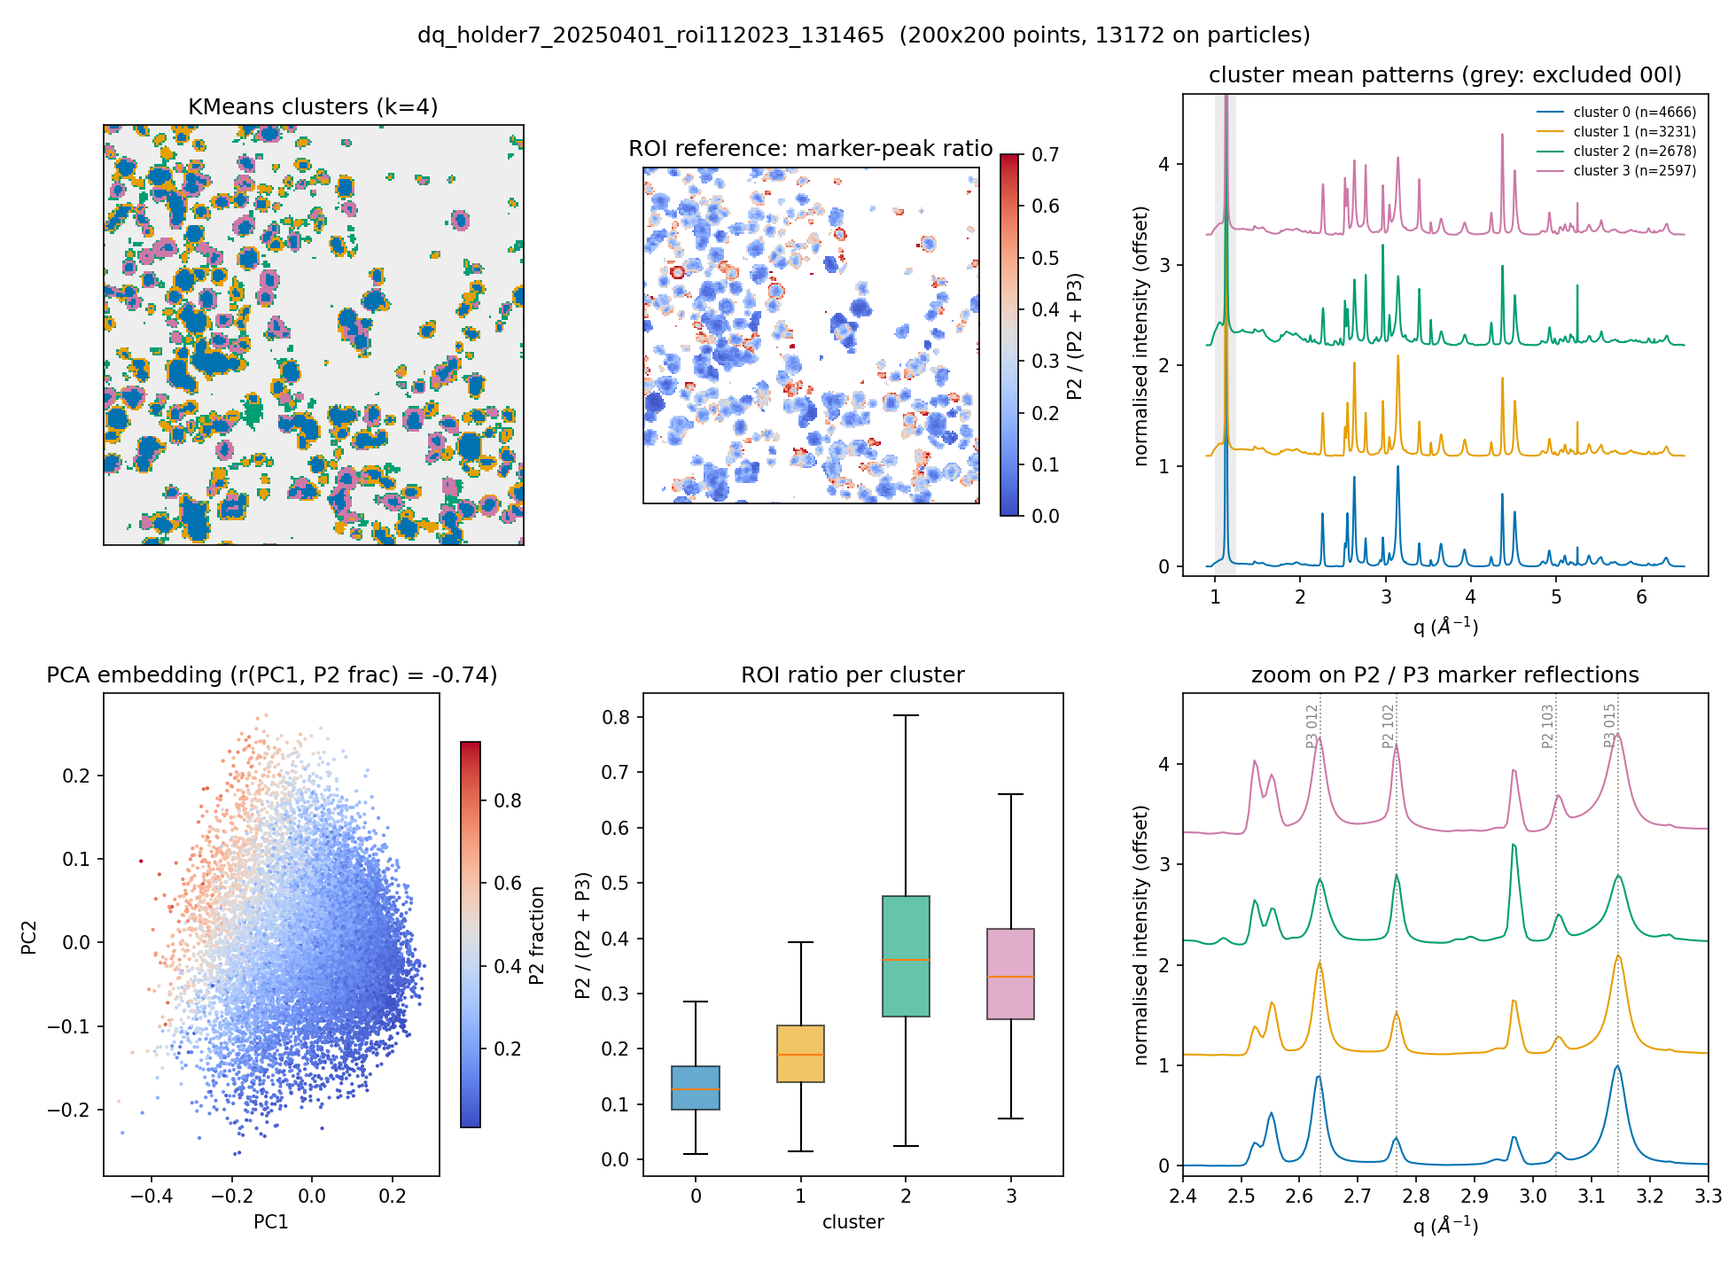
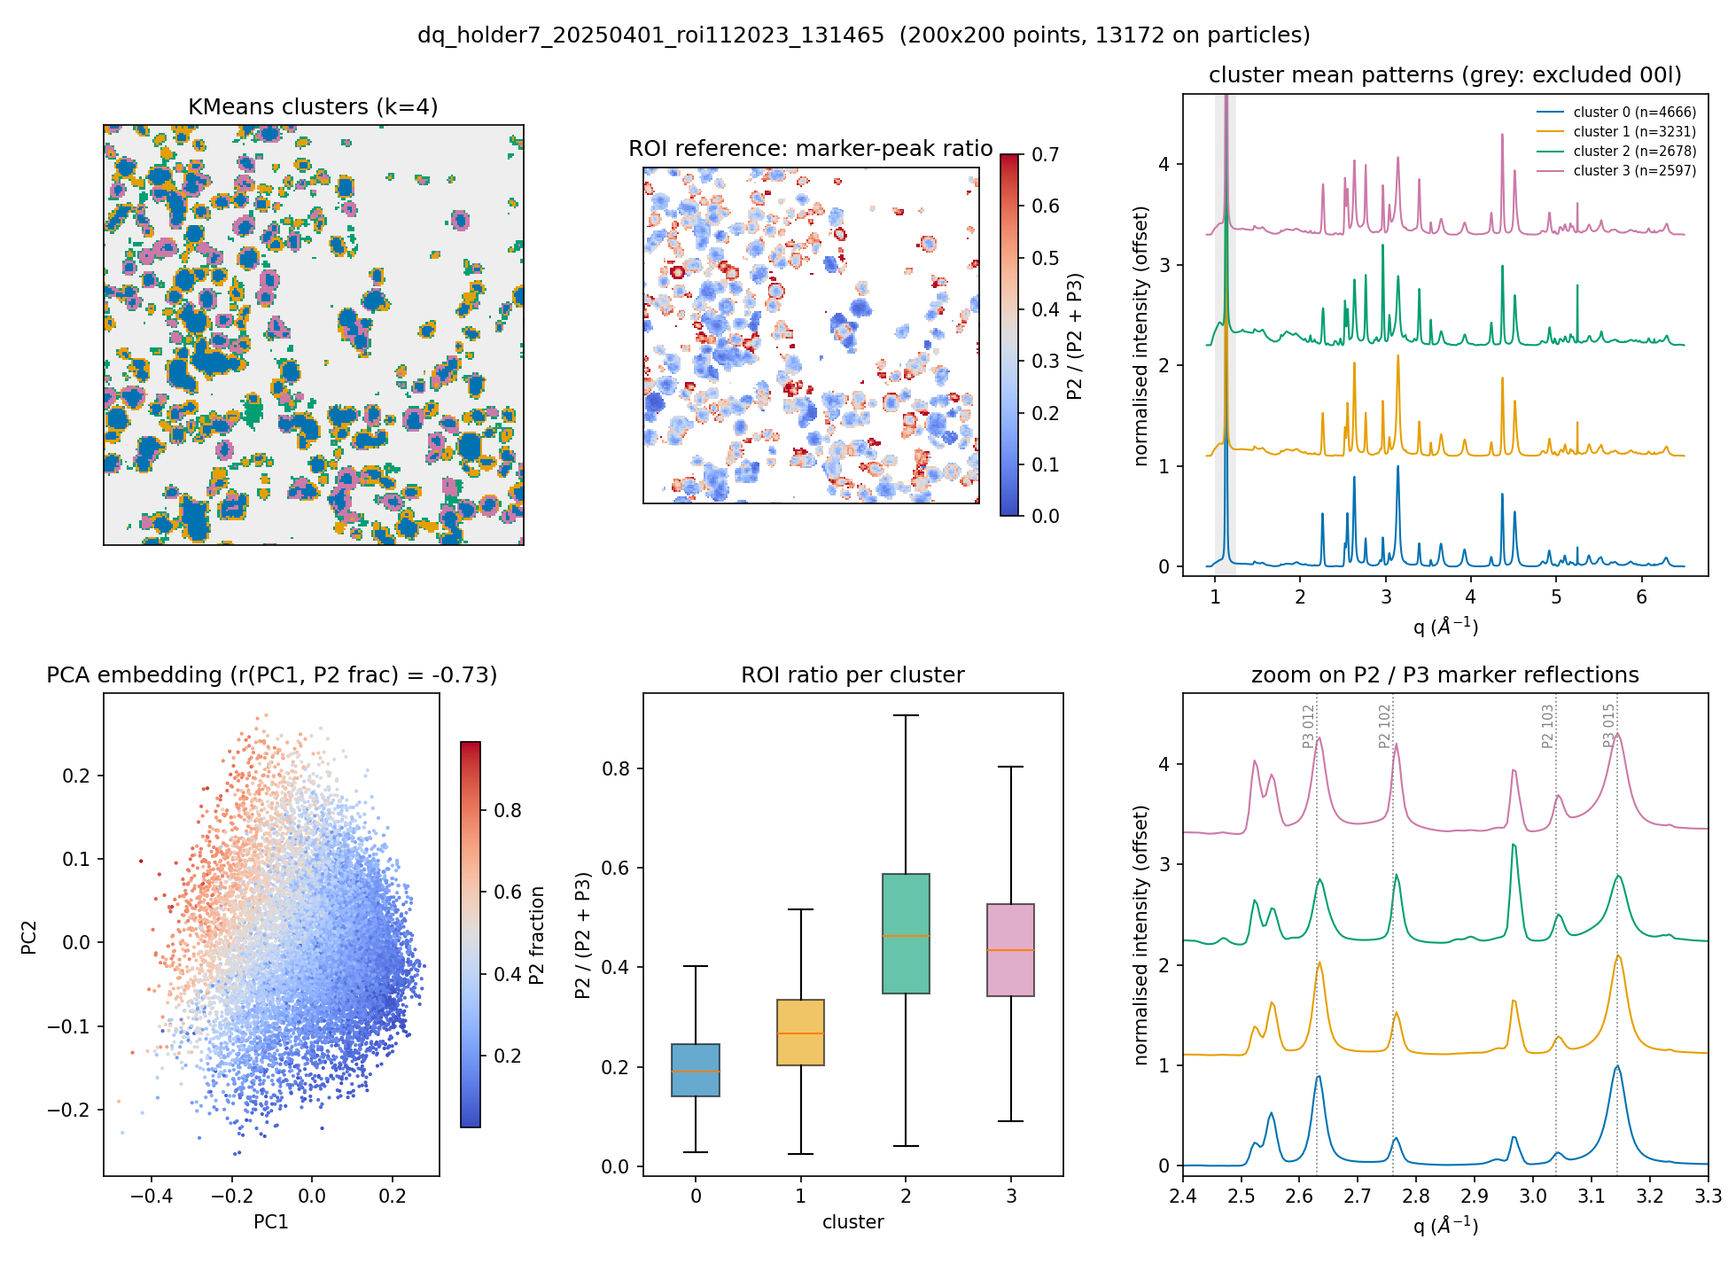
Rename package to uxrd-phasemap-id13; align ROI analysis with the published method (Xu et al., ACS Energy Lett. 2025)

diff --git a/examples/id13_layered_oxide.py b/examples/id13_layered_oxide.py
@@ -1,5 +1,10 @@
 """Phase mapping of an ESRF ID13 scanning micro-XRD map of a P2/P3 layered oxide.
 
+Sample and published analysis: Xu et al., ACS Energy Lett. 2025, 10, 6347
+(doi:10.1021/acsenergylett.5c03108), Fig. 1c and SI. A biphasic P2/P3
+Na-layered oxide (700 C, 12 h) spread between Kapton tapes, 2 um x 2 um
+pixels, 400 um x 400 um regions (200 x 200 patterns), Eiger 4M, 0.954 A.
+
 Usage:
     python examples/id13_layered_oxide.py path/to/dq_*.h5 [--out results_private]
 
@@ -11,8 +16,10 @@ What it does
   3. PCA + KMeans on sqrt-scaled, L2-normalised peak patterns, excluding the
      texture-dominated 00l reflection shared by P2 and P3
   4. automatic choice of k by silhouette score
-  5. validation against the classical ROI approach: P2/(P2+P3) marker-peak
-     fraction per pixel vs. cluster assignment
+  5. validation against the ROI approach: (a) the published two-reflection
+     ratio 102_P2 / (102_P2 + 012_P3) with the original beamline q windows and
+     no background subtraction (SI eqns 1-3), (b) the same windows after SNIP
+     background subtraction, (c) the NMF P2 share
 """
 import argparse
 import json
@@ -23,13 +30,17 @@ matplotlib.use("Agg")
 import matplotlib.pyplot as plt
 import numpy as np
 
-from xrdcluster import PhaseMapper, load_ewoks_h5, phase_fraction
-from xrdcluster.plotting import PALETTE, plot_embedding, plot_label_map, plot_mean_patterns
+from uxrd_phasemap_id13 import PhaseMapper, load_ewoks_h5, normalized_ratio, phase_fraction, window_sum
+from uxrd_phasemap_id13.plotting import PALETTE, plot_embedding, plot_label_map, plot_mean_patterns
 
-# Marker reflections (q in 1/A) that belong to only one polytype, from the
-# hexagonal cells P2 (a=2.88, c=11.1 A) and P3 (a=2.88, c=16.8 A).
-MARKERS = {"P2": [2.766, 3.040], "P3": [2.635, 3.146]}
-LINES = {"P3 012": 2.635, "P2 102": 2.766, "P2 103": 3.040, "P3 015": 3.146}
+# Marker reflections (q in 1/A) that belong to only one polytype, calculated
+# from the Rietveld cells in the SI: P2-PC P6_3/mmc a=2.88516, c=11.0421 A;
+# P3-PC R3m a=2.87846, c=16.7048 A (the ID13 q scale reads ~0.2 % higher).
+MARKERS = {"P2": [2.760, 3.039, 3.392], "P3": [2.630, 3.145]}
+LINES = {"P3 012": 2.630, "P2 102": 2.760, "P2 103": 3.039, "P3 015": 3.145}
+# q windows of the beamline ROI maps used for the paper (reconstructed exactly
+# from the .dat files: plain sums of the pyFAI-integrated intensity)
+PUBLISHED_WINDOWS = {"P2 102": (2.7368, 2.7904), "P3 012": (2.5908, 2.6785)}
 BASAL = (1.0, 1.25)  # P2 002 / P3 003, strongly affected by crystallite orientation
 
 
@@ -109,14 +120,14 @@ def main():
         for name, qm in LINES.items():
             ax2[1, j].axvline(qm, color="grey", ls=":", lw=0.7)
         ax2[1, j].set_xlim(2.2, 3.5); ax2[1, j].set_xlabel(r"q ($\AA^{-1}$)")
-    # colour-blind-safe blend: orange = P2-like share, blue = P3-like share
+    # colour-blind-safe blend, same convention as the paper: blue = P2, orange = P3
     Wf = np.nan_to_num(W / np.nansum(W, 1, keepdims=True))
     share = Wf[:, i_p2] / np.clip(Wf[:, i_p2] + Wf[:, i_p3], 1e-9, None)
-    c_p2, c_p3 = np.array([0.835, 0.369, 0.0]), np.array([0.0, 0.447, 0.698])
+    c_p2, c_p3 = np.array([0.0, 0.447, 0.698]), np.array([0.835, 0.369, 0.0])
     rgb = np.ones((res.xmap.n_points, 3))
     rgb[fg] = share[fg, None] * c_p2 + (1 - share[fg, None]) * c_p3
     ax2[0, k].imshow(rgb.reshape(*res.xmap.shape, 3), origin="lower", interpolation="nearest")
-    ax2[0, k].set_title("NMF share: orange = P2, blue = P3"); ax2[0, k].set_xticks([]); ax2[0, k].set_yticks([])
+    ax2[0, k].set_title("NMF share: blue = P2, orange = P3"); ax2[0, k].set_xticks([]); ax2[0, k].set_yticks([])
     x = share[fg]
     ok = ~np.isnan(frac[fg])
     r_nmf = np.corrcoef(x[ok], frac[fg][ok])[0, 1]
@@ -135,9 +146,42 @@ def main():
         ax3.set_xlabel("k"); ax3.set_ylabel("silhouette score"); fig3.tight_layout()
         fig3.savefig(os.path.join(a.out, f"{stem}_kscan.png"), dpi=130)
 
+    # ---------------------------------------------------------- published method
+    raw = res.xmap.intensity
+    w2, w3 = PUBLISHED_WINDOWS["P2 102"], PUBLISHED_WINDOWS["P3 012"]
+    pub = normalized_ratio(window_sum(raw, res.q, *w2), window_sum(raw, res.q, *w3))
+    # after background removal a phase-pure pixel has ~0 in the other window, so the
+    # per-channel 15 % cut would drop pure P3 cores; mask by total signal instead
+    cor = normalized_ratio(window_sum(res.peaks, res.q, *w2), window_sum(res.peaks, res.q, *w3),
+                           threshold=0.0)
+    cor = np.where(fg, cor, np.nan)
+    bg_share = {k: float(np.nanmedian(1 - window_sum(res.peaks, res.q, *w)[np.isfinite(pub)]
+                                      / window_sum(raw, res.q, *w)[np.isfinite(pub)]))
+                for k, w in PUBLISHED_WINDOWS.items()}
+    both = np.isfinite(pub) & np.isfinite(cor)
+    r_pub = float(np.corrcoef(pub[both], cor[both])[0, 1])
+    print(f"published ratio: median {np.nanmedian(pub):.2f}; background-corrected: "
+          f"median {np.nanmedian(cor[both]):.2f}; r = {r_pub:.3f}; "
+          f"background share of ROI counts {bg_share}")
+    fig4, ax4 = plt.subplots(1, 3, figsize=(15, 4.6))
+    for axx, img, title, (lo, hi) in [
+            (ax4[0], pub, "published method (SI eqn 1-3)", (0.3, 0.7)),
+            (ax4[1], cor, "same windows, SNIP background removed", (0.0, 1.0)),
+            (ax4[2], np.where(fg, share, np.nan), "NMF P2 share (no ROI)", (0.0, 1.0))]:
+        im = axx.imshow(res.xmap.to_image(img), origin="lower", cmap="RdBu", vmin=lo, vmax=hi,
+                        interpolation="nearest")
+        fig4.colorbar(im, ax=axx, shrink=0.8)
+        axx.set_title(title, fontsize=10); axx.set_xticks([]); axx.set_yticks([])
+    fig4.suptitle("blue = P2-rich, red = P3-rich")
+    fig4.tight_layout()
+    fig4.savefig(os.path.join(a.out, f"{stem}_published_vs_ml.png"), dpi=130)
+
     with open(os.path.join(a.out, f"{stem}_summary.json"), "w") as fh:
         json.dump({"clusters": stats, "k_scan": res.k_scan, "corr_pc1_p2fraction": r,
                    "corr_nmf_p2share_roi": r_nmf,
+                   "published_ratio_median": float(np.nanmedian(pub)),
+                   "corrected_ratio_median": float(np.nanmedian(cor[both])),
+                   "corr_published_vs_corrected": r_pub, "roi_background_share": bg_share,
                    "foreground_points": int(fg.sum()), "shape": list(res.xmap.shape)}, fh, indent=2)
 
 

diff --git a/src/uxrd_phasemap_id13/roi.py b/src/uxrd_phasemap_id13/roi.py
@@ -46,3 +46,34 @@ def phase_fraction(intensity: np.ndarray, q: np.ndarray, markers: Dict[str, Iter
     total = sum(sums.values())
     with np.errstate(divide="ignore", invalid="ignore"):
         return {name: np.where(total > 0, s / total, np.nan) for name, s in sums.items()}
+
+
+def window_sum(intensity: np.ndarray, q: np.ndarray, qmin: float, qmax: float) -> np.ndarray:
+    """Plain sum of intensity over ``qmin <= q <= qmax`` (no background).
+
+    This is what a beamline ROI (e.g. the ID13 ``.dat`` maps) contains.
+    """
+    sel = (np.asarray(q) >= qmin) & (np.asarray(q) <= qmax)
+    if not sel.any():
+        raise ValueError(f"window {qmin}-{qmax} is outside the q range")
+    return np.atleast_2d(intensity)[:, sel].sum(1)
+
+
+def normalized_ratio(i_a: np.ndarray, i_b: np.ndarray, threshold: float = 0.15) -> np.ndarray:
+    """Two-reflection phase ratio as used in Xu et al., ACS Energy Lett. 2025,
+    10, 6347 (SI, eqns 1-3).
+
+    Each ROI map is normalised to its own maximum, pixels where either
+    normalised value is below ``threshold`` are masked (NaN), and the ratio
+    ``a / (a + b)`` is returned. If the ROI sums still contain the diffuse
+    background, the ratio is compressed towards 0.5; pass background-
+    subtracted areas (e.g. from :func:`roi_area` on SNIP-corrected data) to
+    avoid that. With background-free inputs, set ``threshold=0`` and mask by
+    total signal instead: the per-channel cut would otherwise discard
+    phase-pure pixels, whose other channel is ~0.
+    """
+    a = np.asarray(i_a, dtype=float) / np.nanmax(i_a)
+    b = np.asarray(i_b, dtype=float) / np.nanmax(i_b)
+    a = np.where(a < threshold, np.nan, a)
+    b = np.where(b < threshold, np.nan, b)
+    return a / (a + b)

diff --git a/tests/test_pipeline.py b/tests/test_pipeline.py
@@ -2,10 +2,10 @@ import numpy as np
 import pytest
 from sklearn.metrics import adjusted_rand_score
 
-from xrdcluster import (PhaseMapper, XRDMap, load_ewoks_h5, make_synthetic_map,
-                        phase_fraction, roi_area, snip_baseline)
-from xrdcluster.preprocess import build_features, otsu_threshold
-from xrdcluster.synthetic import hexagonal_q, pseudo_voigt
+from uxrd_phasemap_id13 import (PhaseMapper, XRDMap, load_ewoks_h5, make_synthetic_map,
+                        normalized_ratio, phase_fraction, roi_area, snip_baseline, window_sum)
+from uxrd_phasemap_id13.preprocess import build_features, otsu_threshold
+from uxrd_phasemap_id13.synthetic import hexagonal_q, pseudo_voigt
 
 
 # ---------------------------------------------------------------- preprocessing
@@ -123,3 +123,18 @@ def test_load_ewoks_h5_roundtrip(tmp_path):
 def test_xrdmap_validates_shape():
     with pytest.raises(ValueError):
         XRDMap(np.zeros((10, 5)), np.arange(5), (3, 3))
+
+
+def test_normalized_ratio_matches_published_definition():
+    a = np.array([10.0, 5.0, 1.0, 8.0])     # P2 102 ROI
+    b = np.array([4.0, 8.0, 8.0, 0.5])      # P3 012 ROI
+    r = normalized_ratio(a, b, threshold=0.15)
+    # a/max = [1, .5, .1, .8]; b/max = [.5, 1, 1, .0625]
+    np.testing.assert_allclose(r[:2], [1 / 1.5, 0.5 / 1.5])
+    assert np.isnan(r[2]) and np.isnan(r[3])  # below 15 % in one channel
+
+
+def test_window_sum():
+    q = np.linspace(0, 1, 11)
+    I = np.arange(22, dtype=float).reshape(2, 11)
+    np.testing.assert_allclose(window_sum(I, q, 0.25, 0.45), [3 + 4, 14 + 15])

diff --git a/src/uxrd_phasemap_id13/__init__.py b/src/uxrd_phasemap_id13/__init__.py
@@ -1,13 +1,13 @@
-"""xrdcluster – unsupervised phase mapping of scanning micro-XRD data."""
+"""uxrd_phasemap_id13 – unsupervised phase mapping of scanning micro-XRD data."""
 from .cluster import BACKGROUND, PhaseMapper, PhaseMapResult
 from .io import XRDMap, load_ewoks_h5
 from .preprocess import build_features, foreground_mask, snip_baseline, subtract_background
-from .roi import phase_fraction, roi_area
+from .roi import normalized_ratio, phase_fraction, roi_area, window_sum
 from .synthetic import make_synthetic_map
 
 __version__ = "0.1.0"
 __all__ = [
     "BACKGROUND", "PhaseMapper", "PhaseMapResult", "XRDMap", "load_ewoks_h5",
     "build_features", "foreground_mask", "snip_baseline", "subtract_background",
-    "phase_fraction", "roi_area", "make_synthetic_map",
+    "phase_fraction", "roi_area", "normalized_ratio", "window_sum", "make_synthetic_map",
 ]

diff --git a/examples/synthetic_demo.py b/examples/synthetic_demo.py
@@ -10,8 +10,8 @@ import matplotlib.pyplot as plt
 import numpy as np
 from sklearn.metrics import adjusted_rand_score
 
-from xrdcluster import PhaseMapper, make_synthetic_map
-from xrdcluster.plotting import cluster_cmap, plot_mean_patterns
+from uxrd_phasemap_id13 import PhaseMapper, make_synthetic_map
+from uxrd_phasemap_id13.plotting import cluster_cmap, plot_mean_patterns
 
 xmap, truth = make_synthetic_map(shape=(100, 100), n_particles=90, impurity_particles=4,
                                  texture=0.8, seed=7)

diff --git a/src/uxrd_phasemap_id13/cli.py b/src/uxrd_phasemap_id13/cli.py
@@ -1,4 +1,4 @@
-"""Command line interface: ``xrdcluster map.h5 -k 3 4 5 --out results/``."""
+"""Command line interface: ``uxrd-phasemap-id13 map.h5 -k 3 4 5 --out results/``."""
 from __future__ import annotations
 
 import argparse

diff --git a/README.md b/README.md
@@ -1,6 +1,6 @@
-# xrdcluster: unsupervised phase mapping for scanning micro-XRD
+# uxrd-phasemap-id13: unsupervised phase mapping for scanning micro-XRD
 
-[![tests](https://github.com/<your-username>/xrdmap-cluster/actions/workflows/tests.yml/badge.svg)](https://github.com/<your-username>/xrdmap-cluster/actions)
+[![tests](https://github.com/<your-username>/uxrd-phasemap-id13/actions/workflows/tests.yml/badge.svg)](https://github.com/<your-username>/uxrd-phasemap-id13/actions)
 
 In a synchrotron scanning micro-diffraction experiment you record one 1D pattern
 `I(q)` at every beam position, which quickly adds up to tens of thousands of patterns
@@ -8,7 +8,7 @@ per map. The classical analysis integrates a few hand-picked reflections (region
 maps). That works when you already know which phases to look for, but it ignores
 most of the pattern and misses anything unexpected.
 
-`xrdcluster` is a small, tested Python package that works on **every pattern in the map
+`uxrd-phasemap-id13` (import name `uxrd_phasemap_id13`) is a small, tested Python package that works on **every pattern in the map
 without supervision**:
 
 ```
@@ -42,42 +42,73 @@ When the orientation-dependent basal reflection dominates the feature vector, th
 small impurity population is lost. Removing that window recovers all three phases.
 `python examples/synthetic_demo.py` reproduces this.
 
-### 2. Real data: P2/P3 Na-layered oxide, ESRF ID13 (Eiger 4M, λ = 0.954 Å)
+### 2. Real data: biphasic P2/P3 Na-layered oxide, ESRF ID13
 
-Scanning micro-XRD maps of Li-substituted Na-layered-oxide particles embedded in a
-matrix. Each map has 200 × 200 or 250 × 250 points, and each point has 1400 q bins.
+The sample and the published ROI analysis come from
+[Xu *et al.*, *ACS Energy Lett.* **2025**, 10, 6347](https://doi.org/10.1021/acsenergylett.5c03108)
+(Fig. 1c and SI). The material is Li-substituted Na<sub>x</sub>(Li,Ni,Mn)O<sub>2</sub>
+calcined at 700 °C, which gives a mixture of the P2 and P3 polytypes. The powder was
+spread sparsely between Kapton tapes. The scan uses 2 µm × 2 µm pixels over a
+400 µm × 400 µm region, which gives 40 000 patterns per map (Eiger 4M, λ = 0.954 Å,
+pyFAI/ewoks integration, 1400 q bins). The paper maps the ratio
+102<sub>P2</sub> / (102<sub>P2</sub> + 012<sub>P3</sub>) and finds a
+**P2 shell nucleating on P3-rich cores**.
 
-**NMF finds the two polytypes without being told what they are.** With three
-components, one component carries the P3 reflections (012, 015), one the P2
-reflections (102, 103), and the third collects everything else (matrix, minor
-phase(s)). Their relative abundance agrees with the classical marker-peak ratio
-P2/(P2+P3) at **r = 0.91 on both maps**. The overlay shows P2-rich rims around
-P3-rich particle cores.
+**Three independent routes give the same core–shell picture** (map 1):
+
+![published vs ML](docs/figures/id13_map1_published_vs_ml.png)
+
+1. *Published method.* The beamline ROI maps turned out to be plain sums of the
+   integrated intensity over q = 2.737–2.790 Å⁻¹ (102<sub>P2</sub>) and
+   2.591–2.679 Å⁻¹ (012<sub>P3</sub>); `window_sum` reproduces the `.dat` files
+   exactly. Each map is then normalised to its maximum, a 15 % threshold is applied,
+   and the ratio a/(a+b) is taken (`normalized_ratio`).
+2. *Same windows after SNIP background removal.* Inside particles, the diffuse
+   background makes up about 50–60 % of the counts in these windows. It adds a similar
+   offset to both channels and pulls the ratio towards 0.5, which explains the
+   narrow 0.3–0.7 colour range of the published figure. Removing it widens the
+   dynamic range (median 0.46 → 0.35). The spatial pattern stays the same
+   (pixel-wise r = 0.99), so the published conclusion is unaffected.
+3. *No ROI at all.* A 3-component NMF on the full background-free patterns finds a
+   P3-like component (012, 015, 107, 018), a P2-like component (100, 102, 103, 104)
+   and a third component for the remainder. The P2 share from NMF agrees with a
+   background-corrected multi-reflection ROI ratio at **r = 0.91 (map 1) and 0.89
+   (map 2)**.
 
 ![nmf](docs/figures/id13_map1_nmf.png)
 
-**KMeans clusters** (k = 4, 00l excluded) separate particle cores from rims. The
-ROI P2 fraction rises from a median of 0.13 in the core cluster to about 0.35 in the
-rim clusters, and PC1 alone correlates with the ROI ratio at |r| = 0.74.
+**KMeans clusters** (k = 4, 00l excluded) separate P3-rich cores from P2-richer
+rims. The median background-corrected P2 ratio is 0.19 and 0.27 in the two core
+clusters and 0.43–0.46 in the two rim clusters. PC1 alone correlates with the ROI
+ratio at |r| = 0.73.
 
 ![clusters](docs/figures/id13_map1_clusters.png)
 
 **What the model-selection score says.** The silhouette score peaks at k = 2 (0.34)
-and then stays flat (0.21–0.23 for k = 3–6). The pattern space is a *continuum* of
-P2/P3 mixtures, not a set of discrete phases, so hard clustering is a coarse
-description. The soft, additive NMF model fits the physics better, and that is why
-both are provided.
+and then stays flat (0.21–0.23 for k = 3–6). A gradual P3 → P2 conversion should
+produce exactly this: a *continuum* of P2/P3 mixtures, not a few discrete phases. Hard
+clustering is therefore a coarse description, and the additive NMF model matches the
+physics better.
 
-On the second map a 24-pixel cluster appears whose pattern contains none of the
-layered-oxide reflections. The ROI analysis cannot see a phase like this because
-nobody defined an ROI for it.
+On the second map, a 24-pixel cluster has a pattern with none of the P2/P3
+reflections (strongest peaks at q ≈ 2.40 and 2.97 Å⁻¹). The ROI analysis cannot see
+this phase because no ROI was ever defined for it. It is still unassigned; residual
+Na salts are candidates, since Rietveld refinement of the bulk powders shows
+2–4 wt % Na₂CO₃.
 
 ### Limitations / honest notes
 
 * Intensities are affected by crystallite orientation (spotty rings in micro-XRD). The
   ROI ratio and the NMF share are **intensity** ratios, not weight fractions.
-* Particle edges have lower signal-to-noise. Part of a core/rim contrast can come from
-  partial-volume effects, so rim assignments should be checked against the raw 2D frames.
+* The 2 µm beam is larger than many primary particles, and particle edges have lower
+  signal-to-noise. Part of a rim contrast can therefore come from partial-volume
+  effects, so rim assignments should be checked against the raw 2D frames.
+* After background removal, a phase-pure pixel has ≈ 0 intensity in the other
+  window. The per-channel 15 % cut of the published recipe would then drop pure
+  cores, so on corrected data the pixels are masked by total signal instead.
+  With raw ROI sums the background floor (≈ 9 % of the maximum in each channel)
+  largely avoids this: 7–9 % of the pixels above threshold fail only one channel,
+  and these are mostly weak edge pixels.
 * SNIP needs a window wider than the Bragg peaks but narrower than the amorphous
   background (`snip_iterations`). The default (40 bins ≈ 0.2 Å⁻¹ here) was checked visually.
 
@@ -85,19 +116,19 @@ nobody defined an ROI for it.
 
 ```bash
 pip install -e ".[dev]"
-pytest                     # 13 tests, synthetic data only, ~5 s
+pytest                     # 15 tests, synthetic data only, ~5 s
 ```
 
 Command line:
 
 ```bash
-xrdcluster dq_scan.h5 --qrange 0.9:6.5 --exclude 1.0:1.25 -k 2 3 4 5 6 --nmf 3 --out results/
+uxrd-phasemap-id13 dq_scan.h5 --qrange 0.9:6.5 --exclude 1.0:1.25 -k 2 3 4 5 6 --nmf 3 --out results/
 ```
 
 Python:
 
 ```python
-from xrdcluster import load_ewoks_h5, PhaseMapper, phase_fraction
+from uxrd_phasemap_id13 import load_ewoks_h5, PhaseMapper, phase_fraction
 
 xmap = load_ewoks_h5("dq_scan.h5")                     # shape inferred for square maps
 res = PhaseMapper(q_range=(0.9, 6.5), exclude_q=[(1.0, 1.25)],
@@ -115,11 +146,11 @@ on synthetic data is in [`examples/quickstart.ipynb`](examples/quickstart.ipynb)
 ## Layout
 
 ```
-src/xrdcluster/
+src/uxrd_phasemap_id13/
   io.py          ewoks/pyFAI HDF5 reader, XRDMap container
   preprocess.py  vectorised SNIP baseline, Otsu + Poisson-noise particle mask, features
   cluster.py     PhaseMapper pipeline (PCA, KMeans/GMM, k selection, NMF)
-  roi.py         ROI peak areas with local linear background, marker-peak phase ratio
+  roi.py         ROI sums/areas, marker-peak ratio, published two-reflection ratio
   synthetic.py   physically-motivated synthetic maps with ground truth
   plotting.py    colour-blind-safe figures
   cli.py         command line entry point
@@ -131,4 +162,5 @@ Beamline data are not included (`*.h5` is git-ignored).
 ## Author
 
 Mingfeng Xu, University of Bayreuth. The data were measured at ESRF ID13
-(proposal in1187). MIT licence.
+(proposal in1187) for Xu, Thapliyal, Laurier, Tucoulou, Burghammer, Seidlmayer,
+Bianchini, *ACS Energy Lett.* 2025, 10, 6347. MIT licence.
